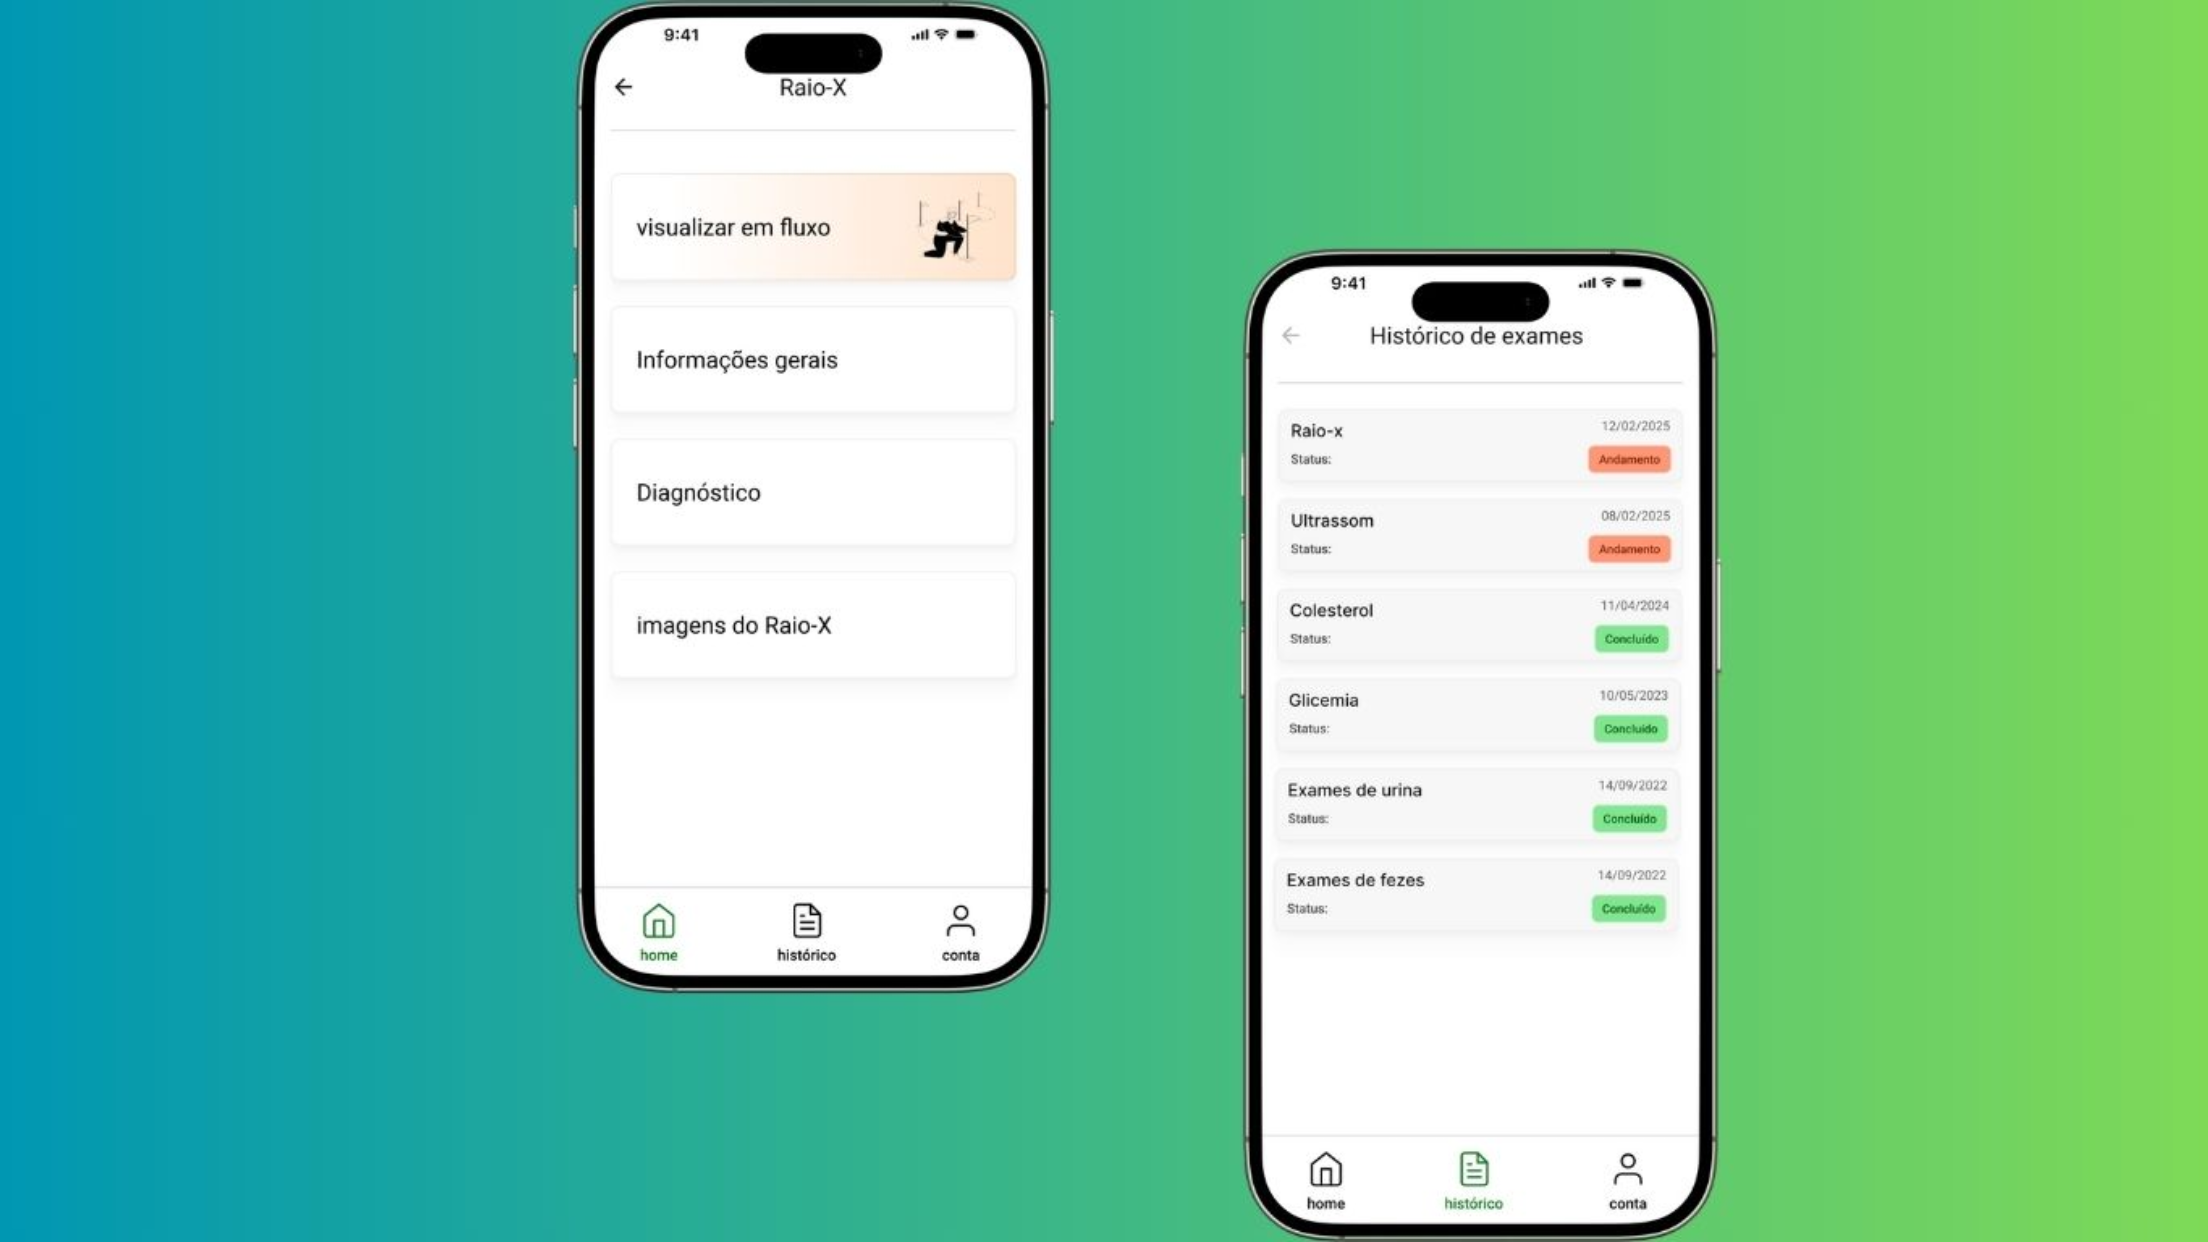
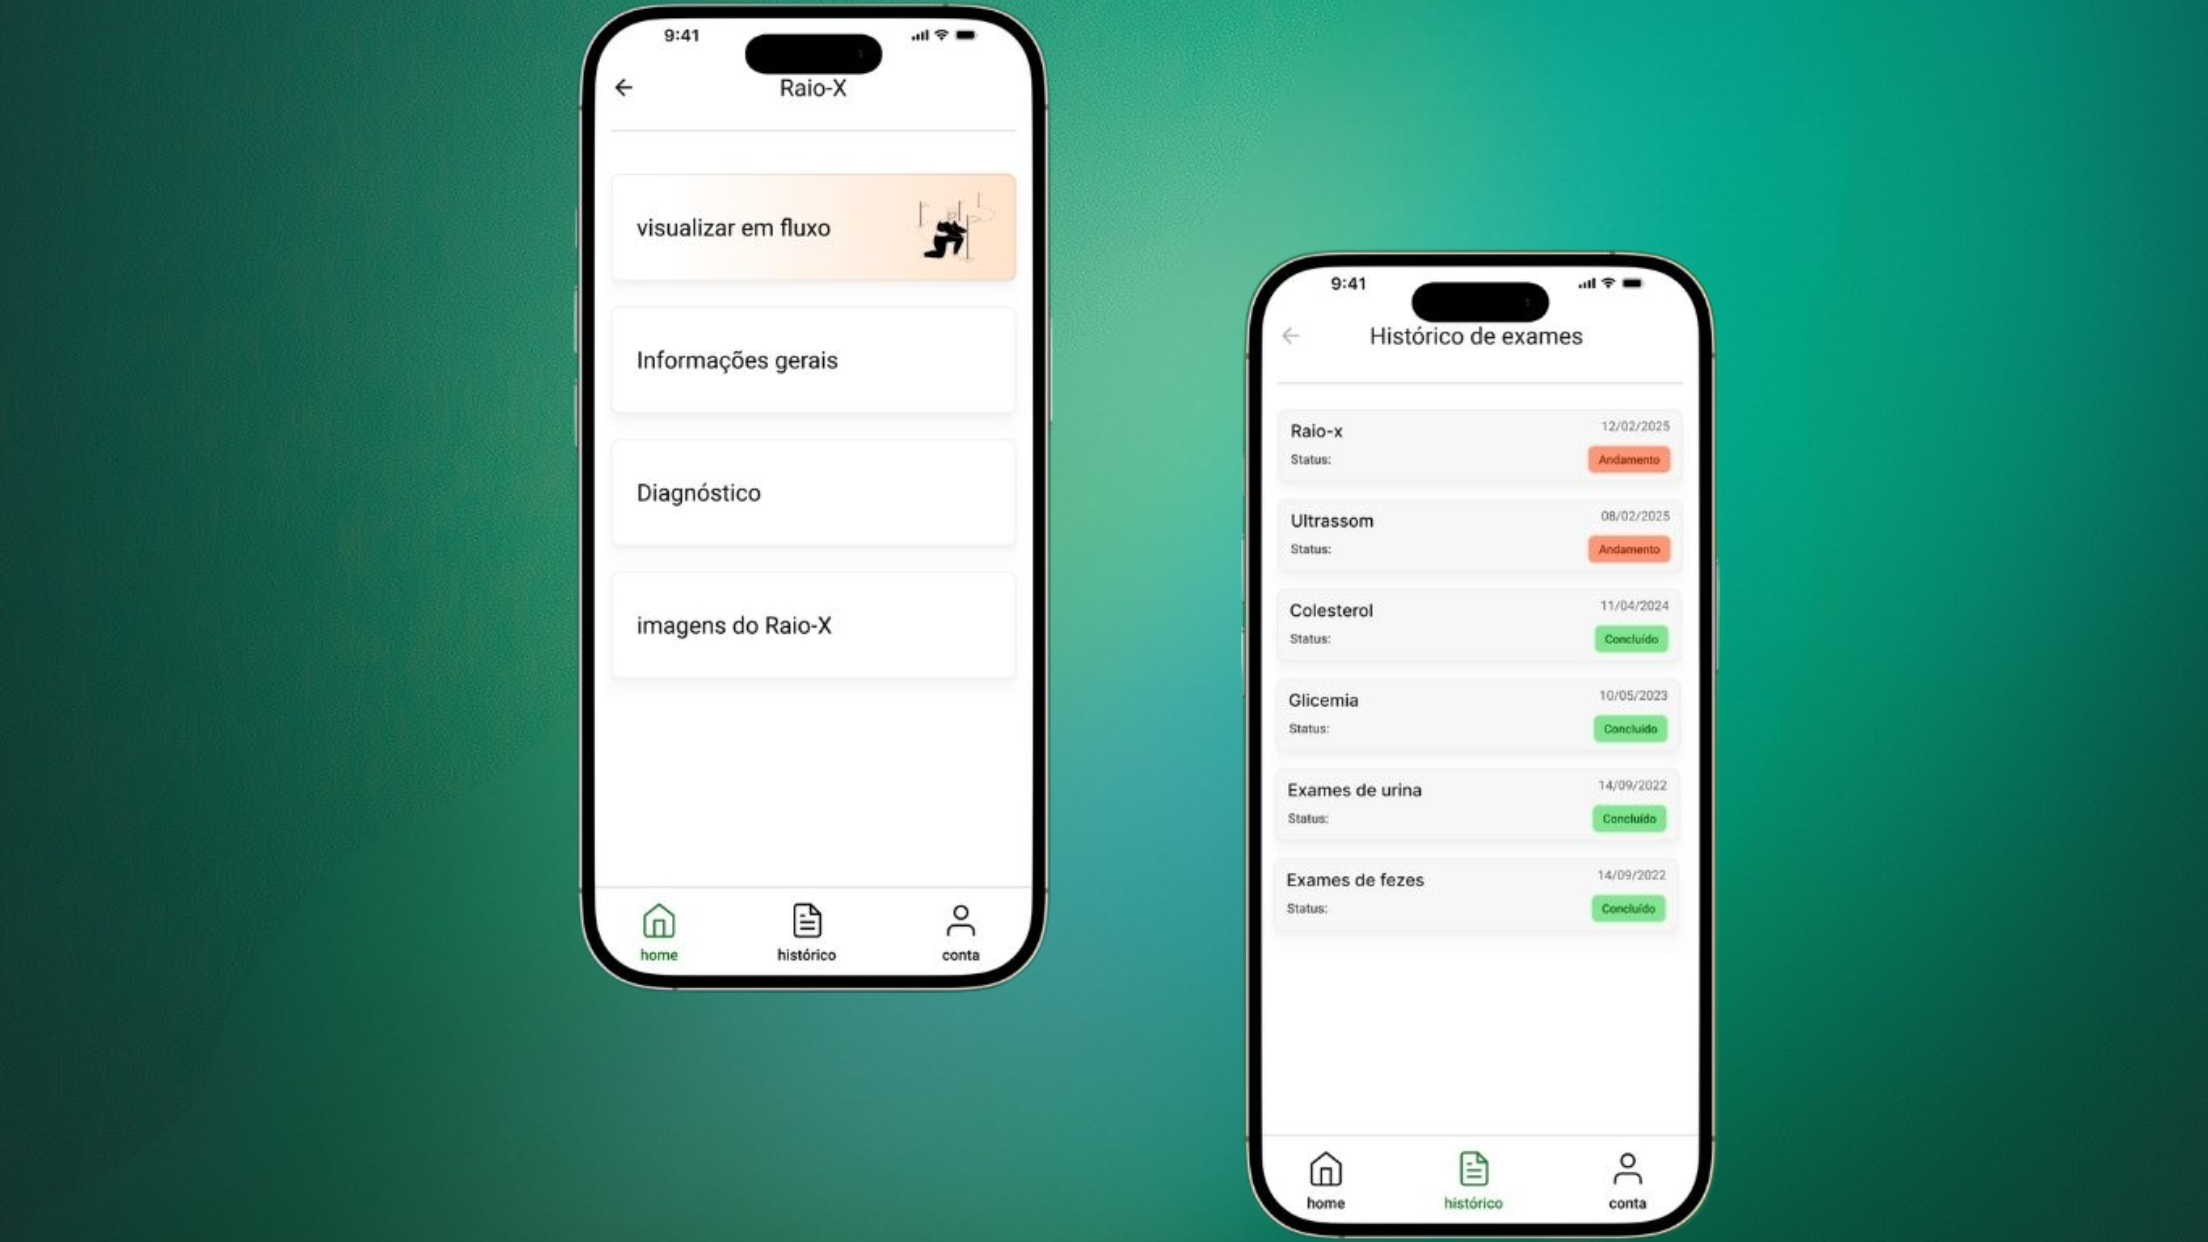
Finishing ExameSUS ajustments

diff --git a/examesus.html b/examesus.html
@@ -63,8 +63,8 @@
                 <li><span class="case-meta">Plataforma:</span> <strong>Mobile</strong></li>
                 <li><span class="case-meta">Público:</span> <strong>Trabalho final — Coderhouse</strong></li>
             </ul>
-            <div class="case-cover">
-                <img src="assets/examesus/cover.png" alt="Mockup final do aplicativo ExameSUS" loading="lazy" onerror="this.remove()">
+            <div class="case-cover" aria-label="Clique para expandir a imagem">
+                <img src="assets/examesus/cover.png" class="zoomable-image" alt="Mockup final do aplicativo ExameSUS" loading="lazy" onerror="this.remove()">
             </div>
         </section>
 
@@ -191,8 +191,8 @@
                     </ul>
                 </article>
             </div>
-            <div class="case-media">
-                <img src="assets/examesus/dark-interviwers.jpg" alt="Fotos dos entrevistados com citações" loading="lazy" onerror="this.remove()">
+            <div class="case-media" aria-label="Clique para expandir a imagem">
+                <img src="assets/examesus/dark-interviwers.jpg" class="zoomable-image" alt="Fotos dos entrevistados com citações" loading="lazy" onerror="this.remove()">
             </div>
 
             <div class="case-section-header" style="margin-top: 3rem;">
@@ -217,8 +217,8 @@
                 <p>O principal aplicativo oficial do SUS — "Meu Dig SUS" — não conseguia resolver esses problemas e era muito criticado pela péssima experiência do usuário.</p>
                 <cite>— O Achado de Ouro</cite>
             </blockquote>
-            <div class="case-media">
-                <img src="assets/examesus/benchmark.png" alt="Tabela de comparação de aplicativos de saúde" loading="lazy" onerror="this.remove()">
+            <div class="case-media" aria-label="Clique para expandir a imagem">
+                <img src="assets/examesus/benchmark.png" class="zoomable-image" alt="Tabela de comparação de aplicativos de saúde" loading="lazy" onerror="this.remove()">
             </div>
         </section>
 

diff --git a/index.html b/index.html
@@ -10,7 +10,7 @@
 
     <!-- Open Graph / Redes Sociais -->
     <meta property="og:type" content="website">
-    <meta property="og:title" content="Átila Costa | Product & UX/UI Designer">
+    <meta property="og:title" content="Atila Costa | Product & UX/UI Designer">
     <meta property="og:description" content="Projetando interfaces eficientes que conectam pessoas a negócios.">
     <meta property="og:image" content="https://atlix-me.vercel.app/og-image.png">
 
@@ -20,7 +20,7 @@
     <meta name="twitter:description" content="Projetando interfaces eficientes que conectam pessoas a negócios.">
     <meta name="twitter:image" content="https://atlix-me.vercel.app/og-image.png">
 
-    <title>Átila Costa | Product Designer</title>
+    <title>Atila Costa | Product Designer</title>
     <link rel="stylesheet" href="style.css">
     <link rel="preconnect" href="https://fonts.googleapis.com">
     <link rel="preconnect" href="https://fonts.gstatic.com" crossorigin>